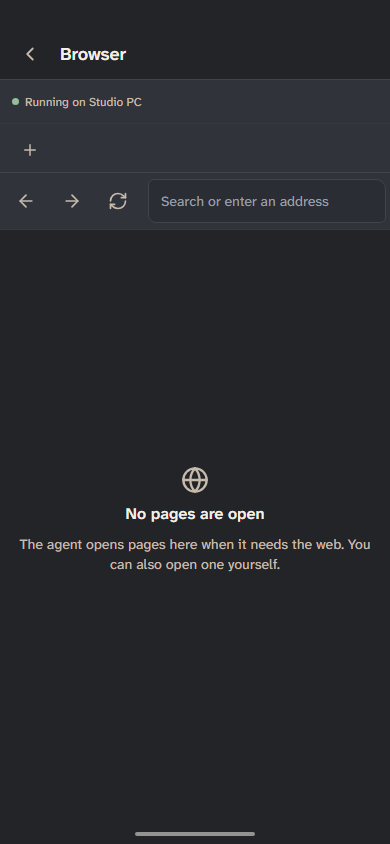
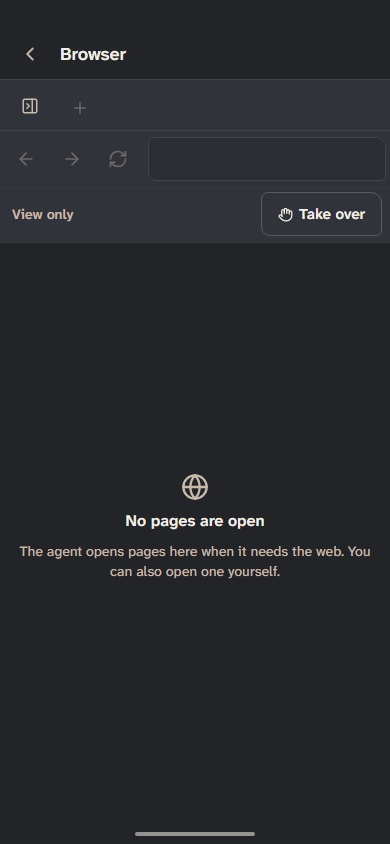
Browser pane: no header, actions in the tabs row, view-only until Take over

diff --git a/design/updates-and-browser/app.js b/design/updates-and-browser/app.js
@@ -27,6 +27,7 @@
       tabs: [{ t: 'Changelog', u: 'docs.example.com/changelog' }, { t: 'Install guide', u: 'docs.example.com/install' }, { t: 'Issue 482', u: 'github.com/example/app/issues/482' }] },
   };
   if (H.tab) M.br.tab = +H.tab;
+  M.br.ctrl = H.ctrl === '1'; M.br.max = H.max === '1';
   if (H.tabs === '1') M.br.tabs = [M.br.tabs[1]];
 
   const VER = {
@@ -188,42 +189,41 @@
     if (st === 'downloading') return `<div class="vp msg"><span class="big">${ic('download', 28)}</span><div class="t">Downloading the browser</div><div style="width:100%;max-width:320px">${bar_(b.dl, 'Browser download')}<div class="progline"><span>${MB(b.dl, 100)}</span><span class="muted">${b.dl}%</span></div></div>${btn('Cancel', { act: 'brState', arg: 'nobrowser' })}</div>`;
     if (!hasTabs) return `<div class="vp msg"><span class="big">${ic('globe', 28)}</span><div class="t">No pages are open</div><p>The agent opens pages here when it needs the web. You can also open one yourself.</p></div>`;
     const page = PAGES[b.tab] !== undefined && b.tabs.length === 3 ? PAGES[b.tab] : PAGES[1];
-    return `<div class="vp"><div class="vp-page">${page}</div></div>`;
+    return `<div class="vp ${M.br.ctrl ? 'ctrl' : ''}"><div class="vp-page">${page}</div></div>`;
   }
   function browserPane(phone) {
     const b = M.br, st = b.st;
     const dead = st === 'stopped' || st === 'nobrowser' || st === 'downloading';
-    const view = st === 'viewonly', acting = st === 'acting', user = st === 'user';
-    const lock = acting || view || dead;
+    const ctrl = b.ctrl && !dead;
+    const acting = st === 'acting' && !ctrl;
+    const lock = !ctrl;
     const hasTabs = b.tabs.length > 0 && !dead;
-    const host = st === 'stopped' ? `<span class="dot off"></span> Stopped` : dead ? `<span class="dot off"></span> No browser` : `${dotOn} Running`;
-    const tabs = hasTabs ? b.tabs.map((t, i) => `<div class="btab ${i === b.tab ? 'on' : ''}"><button class="bt" ${A('btab', i)} ${view ? '' : ''}>${t.t}</button><button class="iconbtn sm" aria-label="Close ${t.t}" ${view ? 'disabled' : A('bclose', i)}>${ic('x', 14)}</button></div>`).join('') : '';
+    const tabs = hasTabs ? b.tabs.map((t, i) => `<div class="btab ${i === b.tab ? 'on' : ''}"><button class="bt" role="tab" aria-selected="${i === b.tab}" ${A('btab', i)}>${t.t}</button><button class="iconbtn sm" aria-label="Close ${t.t}" ${lock ? 'disabled' : A('bclose', i)}>${ic('x', 14)}</button></div>`).join('') : '';
     const addr = hasTabs ? b.tabs[b.tab].u : '';
-    let banner = '';
-    if (acting) banner = `<div class="agentbar act" role="status"><span class="spin">${ic('loader', 16)}</span><div class="grow"><b>Agent is acting</b><span class="sub">Scrolling to step 3 on docs.example.com/install</span></div>${btn('Take over', { icon: 'hand', act: 'takeover' })}</div>`;
-    else if (user) banner = `<div class="agentbar" role="status">${ic('hand', 16)}<div class="grow"><b>You are in control</b><span class="sub">The agent waits until you hand the browser back.</span></div>${btn('Hand back to the agent', { act: 'handback' })}</div>`;
-    else if (view) banner = `<div class="agentbar view" role="status"><span class="spin">${ic('eye', 16)}</span><div class="grow"><b>View only</b><span class="sub">The agent is acting. This device can watch but not control the browser.</span></div></div>`;
+    const acts = `<div class="pact">${phone ? '' : iconBtn(b.max ? 'minimize-2' : 'maximize-2', b.max ? 'Restore the browser' : 'Maximize the browser', 'bmax')}${iconBtn('panel-right-close', 'Hide the browser', phone ? 'pv' : 'pane', phone ? 'chat' : undefined)}</div>`;
+    const activity = acting ? `<span class="actnow" role="status"><span class="spin">${ic('loader', 14)}</span>Agent is acting</span>` : '';
+    const control = dead ? '' : (ctrl ? btn('Hand back', { icon: 'bot', act: 'handback', cls: 'ctl' }) : btn('Take over', { icon: 'hand', act: 'takeover', cls: 'ctl' }));
     const bsz = phone ? 20 : 16;
     const tool = `<div class="btool"><button class="iconbtn" aria-label="Back" ${lock ? 'disabled' : A('noop')}>${ic('arrow-left', bsz)}</button><button class="iconbtn" aria-label="Forward" ${lock ? 'disabled' : A('noop')}>${ic('arrow-right', bsz)}</button><button class="iconbtn" aria-label="Reload" ${lock ? 'disabled' : A('noop')}>${ic('refresh-cw', bsz)}</button>
-      <input class="input baddr" aria-label="Address" value="${addr}" placeholder="${dead ? '' : 'Search or enter an address'}" ${lock || !!dead ? 'disabled' : ''} ${!hasTabs && !dead ? '' : ''}>${hasTabs ? `<span class="spacer"></span>` : ''}</div>`;
-    return `<div class="bpane"><div class="bhead"><span class="bh">Browser</span><span class="bst">${host} on Studio PC</span></div>
-      ${dead ? '' : `<div class="btabs" role="tablist">${tabs}${iconBtn('plus', 'New tab', 'bnew', undefined, view || acting)}</div>`}${dead ? '' : tool}${banner}${viewport()}</div>`;
+      <input class="input baddr" aria-label="Address" value="${addr}" placeholder="${lock ? '' : 'Search or enter an address'}" ${lock ? 'disabled' : ''}>${phone ? '' : activity + control}</div>`;
+    const ctlbar = phone ? `<div class="ctlbar">${activity || '<span class="actnow idle">' + (ctrl ? 'You are in control' : 'View only') + '</span>'}${control}</div>` : '';
+    return `<div class="bpane ${ctrl ? 'ctrl' : ''}"><div class="btabs" role="tablist">${acts}${tabs}${dead ? '' : iconBtn('plus', 'New tab', 'bnew', undefined, lock)}</div>${dead ? '' : tool}${dead ? '' : ctlbar}${viewport()}</div>`;
   }
   function chatBody(phone) {
     const st = M.br.st;
-    const live = st === 'acting' || st === 'viewonly';
+    const live = st === 'acting' && !M.br.ctrl;
     return `<div class="col"><div class="umsg">Open the install guide and check step 3.</div><div class="amsg">Opening the install guide in the browser.</div>
       <div class="step">${ic('globe', 15)}<span>Browser · Open docs.example.com/install</span></div>
       <div class="step">${ic('globe', 15)}<span>Browser · Read the page</span></div>
       ${live ? `<div class="step run">${ic('loader', 15)}<span>Browser · Scroll to step 3</span></div>` : ''}
-      ${st === 'user' ? `<div class="step">${ic('hand', 15)}<span>You took over the browser. The agent is paused.</span></div>` : ''}</div>`;
+      ${M.br.ctrl && st !== 'stopped' && st !== 'nobrowser' && st !== 'downloading' ? `<div class="step">${ic('hand', 15)}<span>You took over the browser. The agent is paused.</span></div>` : ''}</div>`;
   }
   function composer(p) {
     return `<div class="composer"><div class="ph">${p ? 'Message Studio PC' : 'Steer the agent…'}</div><div class="bar2"><span>deepseek-v4.1-flash ▾</span><span class="grow"></span>${btn('Stop')}${btn('Send', { kind: 'primary', icon: 'arrow-up' })}</div>${p ? '<div class="homebar"></div>' : ''}</div>`;
   }
   function browserDesktop() {
     const open = M.br.pane;
-    return `<div class="bwin ${open ? '' : 'closed'}"><div class="main"><div class="topbar"><span class="ct">Check the install steps</span><span class="tag mono">bubblepaw-base</span><span class="grow" style="flex:1"></span><button class="iconbtn ${open ? 'on' : ''}" aria-label="Browser pane" aria-pressed="${open}" title="Browser pane" ${A('pane')}>${ic('panel-right', 18)}</button></div>
+    return `<div class="bwin ${open ? '' : 'closed'} ${open && M.br.max ? 'max' : ''}"><div class="main"><div class="topbar"><span class="ct">Check the install steps</span><span class="tag mono">bubblepaw-base</span><span class="grow" style="flex:1"></span><button class="iconbtn ${open ? 'on' : ''}" aria-label="Browser pane" aria-pressed="${open}" title="Browser pane" ${A('pane')}>${ic('panel-right', 18)}</button></div>
       <div class="stream">${chatBody(false)}</div>${composer(false)}</div>${open ? browserPane(false) : ''}</div>`;
   }
   function browserPhone() {
@@ -252,7 +252,7 @@
       sims.push(grp('Host', [chip('simrun', 1, 'A host is already running', M.run && !M.att, M.att)]));
     }
     if (S.screen === 'browser') {
-      sims.push(grp('State', [['acting', 'Agent acting'], ['empty', 'Empty'], ['nobrowser', 'No browser'], ['stopped', 'Stopped when idle'], ['viewonly', 'Read-only device']].map(([v, l]) => chip('brState', v, l, M.br.st === v))));
+      sims.push(grp('State', [['acting', 'Agent acting'], ['ready', 'Agent idle'], ['empty', 'Empty'], ['nobrowser', 'No browser'], ['stopped', 'Stopped when idle']].map(([v, l]) => chip('brState', v, l, M.br.st === v))));
     }
     return `<div class="bar-row"><div class="tabs" role="tablist" aria-label="Screens">${scr}</div><span class="grow"></span>
       ${grp('Theme', [['light', 'Light'], ['dark', 'Dark']].map(([v, l]) => chip('pref', v, l, M.pref === v)))}
@@ -304,7 +304,7 @@
 
   /* ---------- actions ---------- */
   const ACT = {
-    screen: (v) => { S.screen = v; S.pv = ''; if (v === 'popup' && M.pu === 'closed') M.pu = 'available'; if (v === 'browser' && !M.br.tabs.length && M.br.st === 'acting') M.br.st = 'empty'; },
+    screen: (v) => { S.screen = v; S.pv = ''; if (v === 'popup' && M.pu === 'closed') M.pu = 'available'; if (v === 'browser' && !M.br.tabs.length && (M.br.st === 'acting' || M.br.st === 'ready')) M.br.st = 'empty'; },
     pref: (v) => { M.pref = v; },
     size: (v) => { S.size = v; S.pv = ''; },
     pv: (v) => { S.pv = v; },
@@ -325,9 +325,10 @@
     browse: () => { M.f.binary = '/usr/local/bin/bubblepaw'; },
     save: () => { M.saved = 'Host restarted with the saved settings.'; },
     cancel: () => { M.coreMode = 'bundled'; M.saved = ''; },
-    brState: (v) => { M.br.st = v; if (v === 'downloading') M.br.dl = 0; if (v === 'acting' || v === 'viewonly') { if (!M.br.tabs.length) M.br.tabs = [{ t: 'Changelog', u: 'docs.example.com/changelog' }, { t: 'Install guide', u: 'docs.example.com/install' }, { t: 'Issue 482', u: 'github.com/example/app/issues/482' }]; M.br.tab = 1; } },
-    takeover: () => { M.br.st = 'user'; },
-    handback: () => { M.br.st = 'acting'; },
+    brState: (v) => { M.br.st = v; if (v === 'downloading') M.br.dl = 0; M.br.ctrl = false; if (v === 'acting' || v === 'ready') { if (!M.br.tabs.length) M.br.tabs = [{ t: 'Changelog', u: 'docs.example.com/changelog' }, { t: 'Install guide', u: 'docs.example.com/install' }, { t: 'Issue 482', u: 'github.com/example/app/issues/482' }]; M.br.tab = 1; } },
+    takeover: () => { M.br.ctrl = true; },
+    handback: () => { M.br.ctrl = false; },
+    bmax: () => { M.br.max = !M.br.max; },
     btab: (v) => { M.br.tab = +v; },
     bclose: (v) => { M.br.tabs.splice(+v, 1); M.br.tab = Math.max(0, Math.min(M.br.tab, M.br.tabs.length - 1)); if (!M.br.tabs.length) M.br.st = 'empty'; },
     bnew: () => { M.br.tabs.push({ t: 'New tab', u: '' }); M.br.tab = M.br.tabs.length - 1; },
@@ -346,7 +347,7 @@
     const k = ev.target.dataset && ev.target.dataset.k;
     if (k) M.f[k] = ev.target.value;
   });
-  if (M.br.st === 'acting' || M.br.st === 'viewonly' || M.br.st === 'user') M.br.tab = H.tab ? +H.tab : 1;
+  if (M.br.st === 'acting' || M.br.st === 'ready') M.br.tab = H.tab ? +H.tab : 1;
   if (M.br.st === 'empty') M.br.tabs = [];
   if (M.chk === 'found' || M.chk === 'none') M.chkResult = M.chk;
   render();

diff --git a/design/updates-and-browser/index.html b/design/updates-and-browser/index.html
@@ -25,17 +25,18 @@
 </ul>
 <h2>Built-in browser</h2><ul>
 <li><span>browser agent acting</span><a href="app.html#screen=browser&br=acting">Light</a><a href="app.html#screen=browser&br=acting&amp;theme=dark">Dark</a></li>
-<li><span>browser you in control</span><a href="app.html#screen=browser&br=user">Light</a><a href="app.html#screen=browser&br=user&amp;theme=dark">Dark</a></li>
+<li><span>browser agent idle</span><a href="app.html#screen=browser&br=ready">Light</a><a href="app.html#screen=browser&br=ready&amp;theme=dark">Dark</a></li>
+<li><span>browser you in control</span><a href="app.html#screen=browser&br=ready&ctrl=1">Light</a><a href="app.html#screen=browser&br=ready&ctrl=1&amp;theme=dark">Dark</a></li>
+<li><span>browser maximized</span><a href="app.html#screen=browser&br=acting&max=1">Light</a><a href="app.html#screen=browser&br=acting&max=1&amp;theme=dark">Dark</a></li>
 <li><span>browser empty</span><a href="app.html#screen=browser&br=empty">Light</a><a href="app.html#screen=browser&br=empty&amp;theme=dark">Dark</a></li>
 <li><span>browser no browser</span><a href="app.html#screen=browser&br=nobrowser">Light</a><a href="app.html#screen=browser&br=nobrowser&amp;theme=dark">Dark</a></li>
 <li><span>browser downloading</span><a href="app.html#screen=browser&br=downloading">Light</a><a href="app.html#screen=browser&br=downloading&amp;theme=dark">Dark</a></li>
 <li><span>browser stopped</span><a href="app.html#screen=browser&br=stopped">Light</a><a href="app.html#screen=browser&br=stopped&amp;theme=dark">Dark</a></li>
-<li><span>browser view only</span><a href="app.html#screen=browser&br=viewonly">Light</a><a href="app.html#screen=browser&br=viewonly&amp;theme=dark">Dark</a></li>
 <li><span>Phone: browser chat</span><a href="app.html#screen=browser&size=phone&pv=chat&br=acting">Light</a><a href="app.html#screen=browser&size=phone&pv=chat&br=acting&amp;theme=dark">Dark</a></li>
 <li><span>Phone: browser agent acting</span><a href="app.html#screen=browser&size=phone&br=acting">Light</a><a href="app.html#screen=browser&size=phone&br=acting&amp;theme=dark">Dark</a></li>
-<li><span>Phone: browser you in control</span><a href="app.html#screen=browser&size=phone&br=user">Light</a><a href="app.html#screen=browser&size=phone&br=user&amp;theme=dark">Dark</a></li>
+<li><span>Phone: browser agent idle</span><a href="app.html#screen=browser&size=phone&br=ready">Light</a><a href="app.html#screen=browser&size=phone&br=ready&amp;theme=dark">Dark</a></li>
+<li><span>Phone: browser you in control</span><a href="app.html#screen=browser&size=phone&br=ready&ctrl=1">Light</a><a href="app.html#screen=browser&size=phone&br=ready&ctrl=1&amp;theme=dark">Dark</a></li>
 <li><span>Phone: browser empty</span><a href="app.html#screen=browser&size=phone&br=empty">Light</a><a href="app.html#screen=browser&size=phone&br=empty&amp;theme=dark">Dark</a></li>
 <li><span>Phone: browser no browser</span><a href="app.html#screen=browser&size=phone&br=nobrowser">Light</a><a href="app.html#screen=browser&size=phone&br=nobrowser&amp;theme=dark">Dark</a></li>
 <li><span>Phone: browser stopped</span><a href="app.html#screen=browser&size=phone&br=stopped">Light</a><a href="app.html#screen=browser&size=phone&br=stopped&amp;theme=dark">Dark</a></li>
-<li><span>Phone: browser view only</span><a href="app.html#screen=browser&size=phone&br=viewonly">Light</a><a href="app.html#screen=browser&size=phone&br=viewonly&amp;theme=dark">Dark</a></li>
 </ul></main></body></html>

diff --git a/design/updates-and-browser/style.css b/design/updates-and-browser/style.css
@@ -541,3 +541,21 @@ body.still .step.run .ic, body.still .spin .ic { animation: none; }
 .phone .kvc .kv .k { display: block; }
 .phone .bhead .bh { display: none; }
 .phone .bhead { justify-content: flex-start; }
+
+/* Browser pane revision: no header, actions in the tabs row, view-only until Take over */
+.bwin.max { grid-template-columns: 1fr; }
+.bwin.max .main { display: none; }
+.bwin.max .bpane { border-left: 0; }
+.pact { display: flex; gap: 0; align-items: center; margin-right: 4px; flex: none; }
+.pact .iconbtn { width: 28px; height: 28px; }
+.phone .pact .iconbtn { width: 44px; height: 44px; }
+.btabs { padding-bottom: 0; align-items: flex-end; }
+.btabs .pact { align-self: center; padding-bottom: 2px; }
+.btool .ctl { margin-left: 6px; flex: none; }
+.actnow { display: inline-flex; align-items: center; gap: 6px; margin-left: 8px; font-size: 12.5px; font-weight: 600; color: var(--attn-ink); white-space: nowrap; flex: none; }
+.actnow.idle { color: var(--muted); margin-left: 0; }
+.ctlbar { display: flex; align-items: center; justify-content: space-between; gap: 8px; padding: 4px 8px 6px 12px; border-bottom: 1px solid var(--seam-subtle); }
+.ctlbar .actnow { margin-left: 0; font-size: 14px; }
+.vp:not(.ctrl) .vp-page { pointer-events: none; }
+.vp.ctrl { box-shadow: inset 0 0 0 2px var(--accent); }
+.bpane.ctrl .btool .baddr { border-color: var(--accent); }

diff --git a/design/updates-and-browser/icons.js b/design/updates-and-browser/icons.js
@@ -58,4 +58,7 @@ window.LUCIDE = {
   "panel-right": "<rect width=\"18\" height=\"18\" x=\"3\" y=\"3\" rx=\"2\"/><path d=\"M15 3v18\"/>",
   "power": "<path d=\"M12 2v10\"/><path d=\"M18.4 6.6a9 9 0 1 1-12.77.04\"/>",
   "rotate-cw": "<path d=\"M21 12a9 9 0 1 1-9-9c2.52 0 4.93 1 6.74 2.74L21 8\"/><path d=\"M21 3v5h-5\"/>",
+  "maximize-2": "<polyline points=\"15 3 21 3 21 9\"/><polyline points=\"9 21 3 21 3 15\"/><line x1=\"21\" x2=\"14\" y1=\"3\" y2=\"10\"/><line x1=\"3\" x2=\"10\" y1=\"21\" y2=\"14\"/>",
+  "minimize-2": "<polyline points=\"4 14 10 14 10 20\"/><polyline points=\"20 10 14 10 14 4\"/><line x1=\"14\" x2=\"21\" y1=\"10\" y2=\"3\"/><line x1=\"3\" x2=\"10\" y1=\"21\" y2=\"14\"/>",
+  "panel-right-close": "<rect width=\"18\" height=\"18\" x=\"3\" y=\"3\" rx=\"2\"/><path d=\"M15 3v18\"/><path d=\"m8 9 3 3-3 3\"/>",
 };
